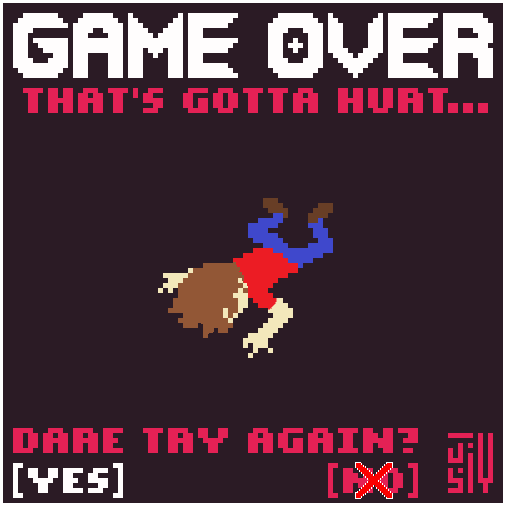
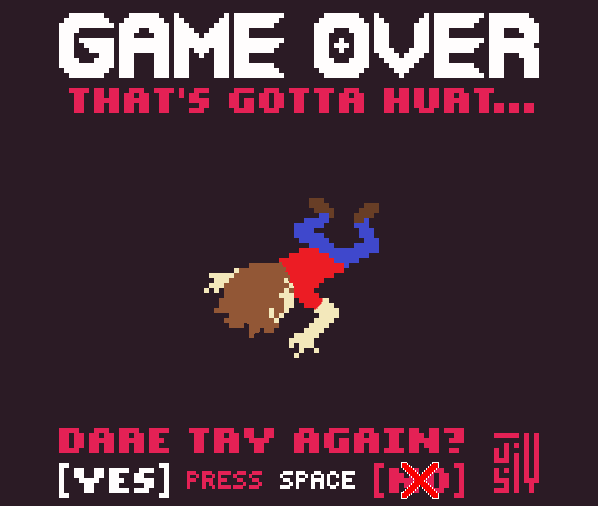
game over screen done

diff --git a/Blitz Breakout/GameOverScreen.java b/Blitz Breakout/GameOverScreen.java
@@ -8,23 +8,19 @@ import greenfoot.*;  // (World, Actor, GreenfootImage, Greenfoot and MouseInfo)
  */
 public class GameOverScreen extends SimulationWorld
 {
-    GifImage gameOverScreen = new GifImage("GameOverScreen.gif");
-    
     public GameOverScreen()
     {
         super("", 900, 768, new Point2D(8.0, 6.0), 16.0); 
         
-        for (Object obj : gameOverScreen.getImages())
-        {
-            ((GreenfootImage)obj).scale(getWidth(), getHeight());
-        }
+        GreenfootImage img = new GreenfootImage("gameover.png");
+        img.scale(900,768);
+        setBackground(img);
     }
     
     public void act()
     {
         super.act();
         
-        setBackground(gameOverScreen.getCurrentImage());
         if (Greenfoot.isKeyDown("space"))
         {
             transitionToWorld(new StartMenu());

diff --git a/Blitz Breakout/GameWinScreen.java b/Blitz Breakout/GameWinScreen.java
@@ -8,7 +8,6 @@ import greenfoot.*;  // (World, Actor, GreenfootImage, Greenfoot and MouseInfo)
  */
 public class GameWinScreen extends SimulationWorld
 {
-
     /**
      * Constructor for objects of class GameWinScreen.
      * 
